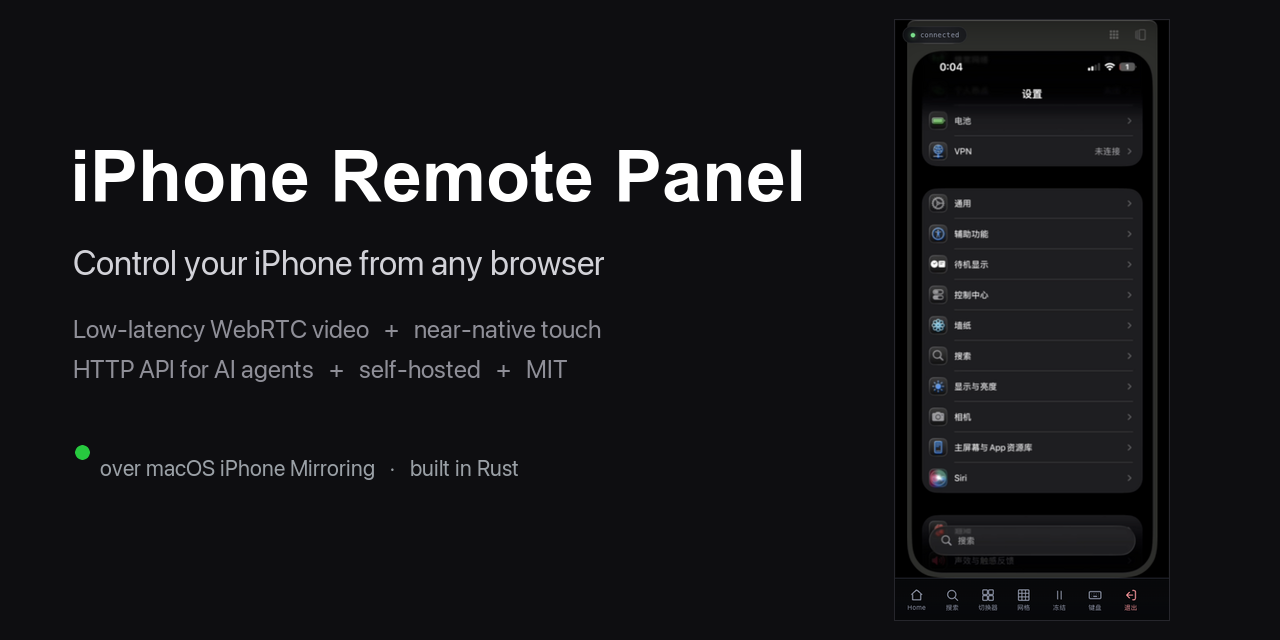
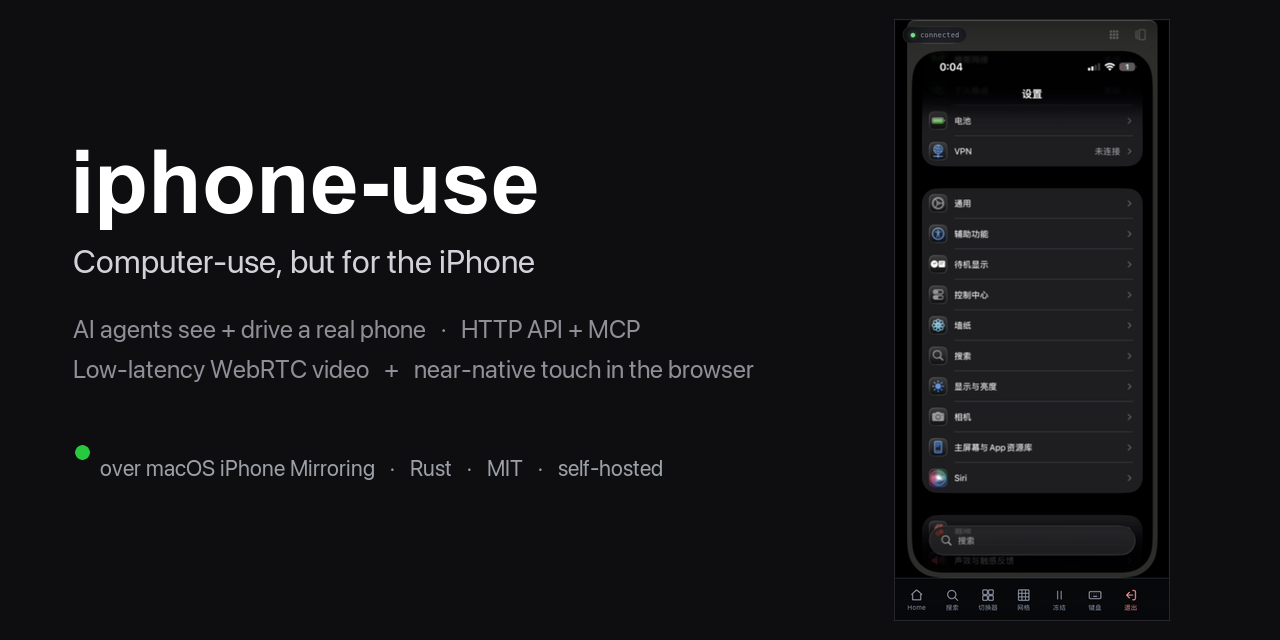
rebrand: iphone-use
The project is now iphone-use — computer-use, but for the iPhone. Repo
renamed (github.com/leeguooooo/iphone-use; old URLs redirect). Brand-level
updates: README title + tagline, web client <title>, agent-api.html title,
install.sh/deploy repo paths, social card regenerated, repo description.

Binary (iphone-remote), app bundle (iPhoneRemote.app), and the bundle id
are unchanged for now — renaming them would invalidate existing TCC grants
and the v0.1.0 release-asset names; deferred to a future major-ish bump.

diff --git a/docs/agent-api.html b/docs/agent-api.html
@@ -3,7 +3,7 @@
 <head>
 <meta charset="utf-8">
 <meta name="viewport" content="width=device-width, initial-scale=1">
-<title>iPhone Remote — Agent API</title>
+<title>iphone-use — Agent API</title>
 <style>
   :root {
     --fg: #1a1a1a; --muted: #6b6b6b; --bg: #fbfbfa; --card: #ffffff;
@@ -46,7 +46,7 @@
 <div class="wrap">
 
 <header class="page">
-  <h1>iPhone Remote — Agent API</h1>
+  <h1>iphone-use — Agent API</h1>
   <p>Connect-in HTTP control for agents (Hermes, Claude MCP clients, scripts).</p>
 </header>
 

diff --git a/web/index.html b/web/index.html
@@ -25,7 +25,7 @@
   <meta name="mobile-web-app-capable" content="yes" />
   <meta name="apple-mobile-web-app-status-bar-style" content="black-translucent" />
   <meta name="theme-color" content="#08090c" />
-  <title>iPhone Remote</title>
+  <title>iphone-use</title>
   <style>
     /* ── Design system: instrument-panel dark ────────────────────── */
     :root {

diff --git a/README.md b/README.md
@@ -1,4 +1,6 @@
-# iPhone Remote Panel
+# iphone-use
+
+> *Computer-use, but for the iPhone — let AI agents (and your browser) see and drive a real phone.*
 
 [![License: MIT](https://img.shields.io/badge/License-MIT-blue.svg)](LICENSE)
 ![Platform: macOS 15+](https://img.shields.io/badge/platform-macOS%2015%2B-lightgrey)

diff --git a/deploy/README.md b/deploy/README.md
@@ -39,7 +39,7 @@ Operational checklist for unattended boxes:
 ## Install
 
 ```sh
-curl -fsSL https://raw.githubusercontent.com/leeguooooo/iphone-remote-panel/main/install.sh | sh
+curl -fsSL https://raw.githubusercontent.com/leeguooooo/iphone-use/main/install.sh | sh
 ```
 
 For local / dev installs (pre-built .app):
